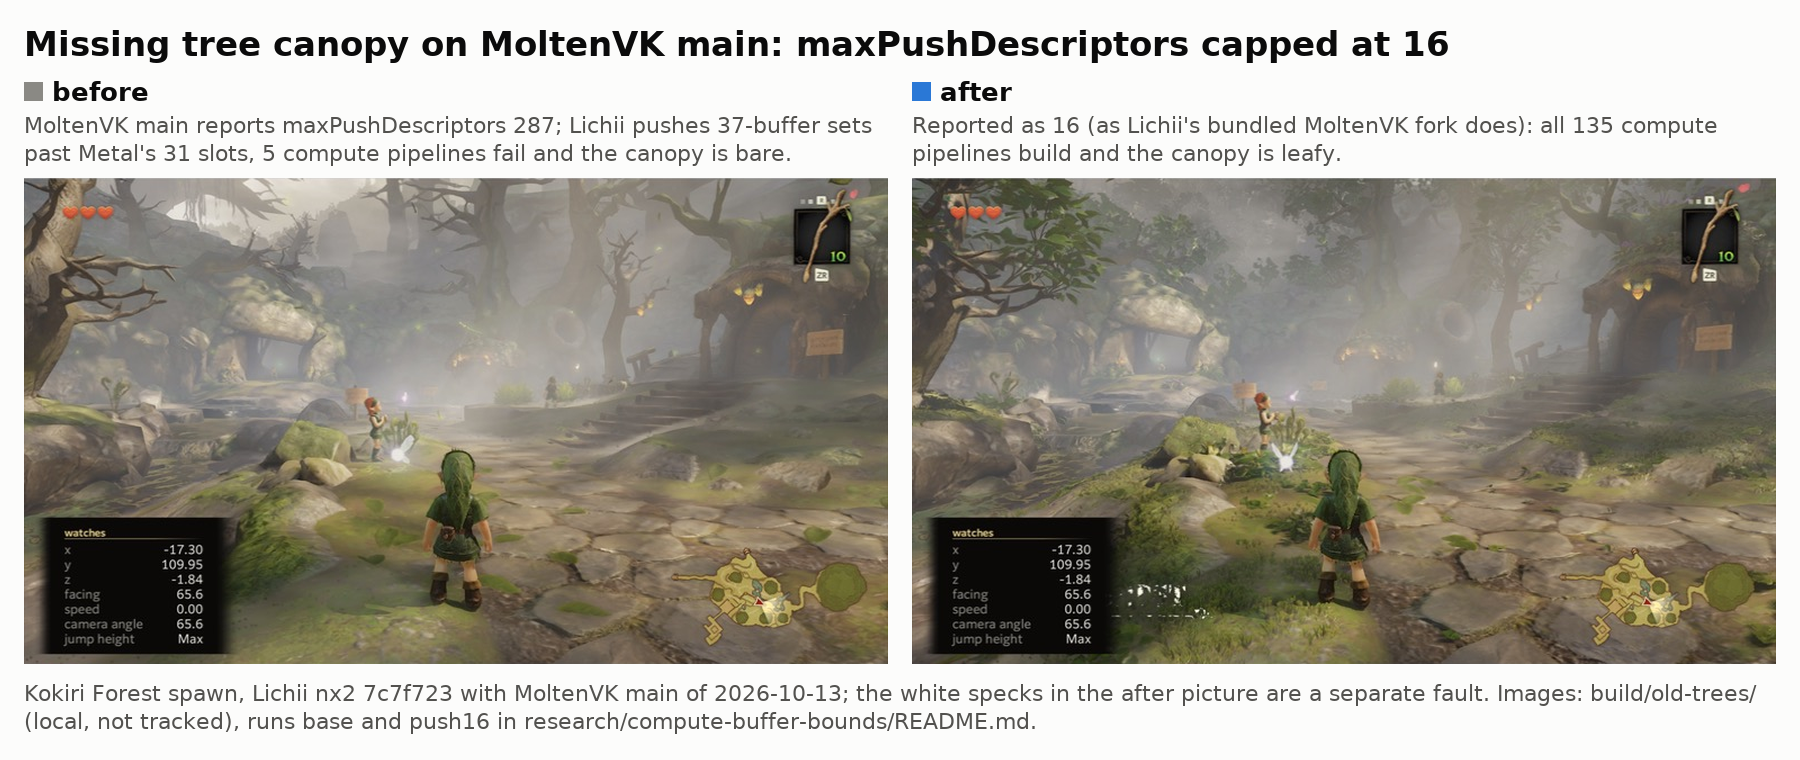
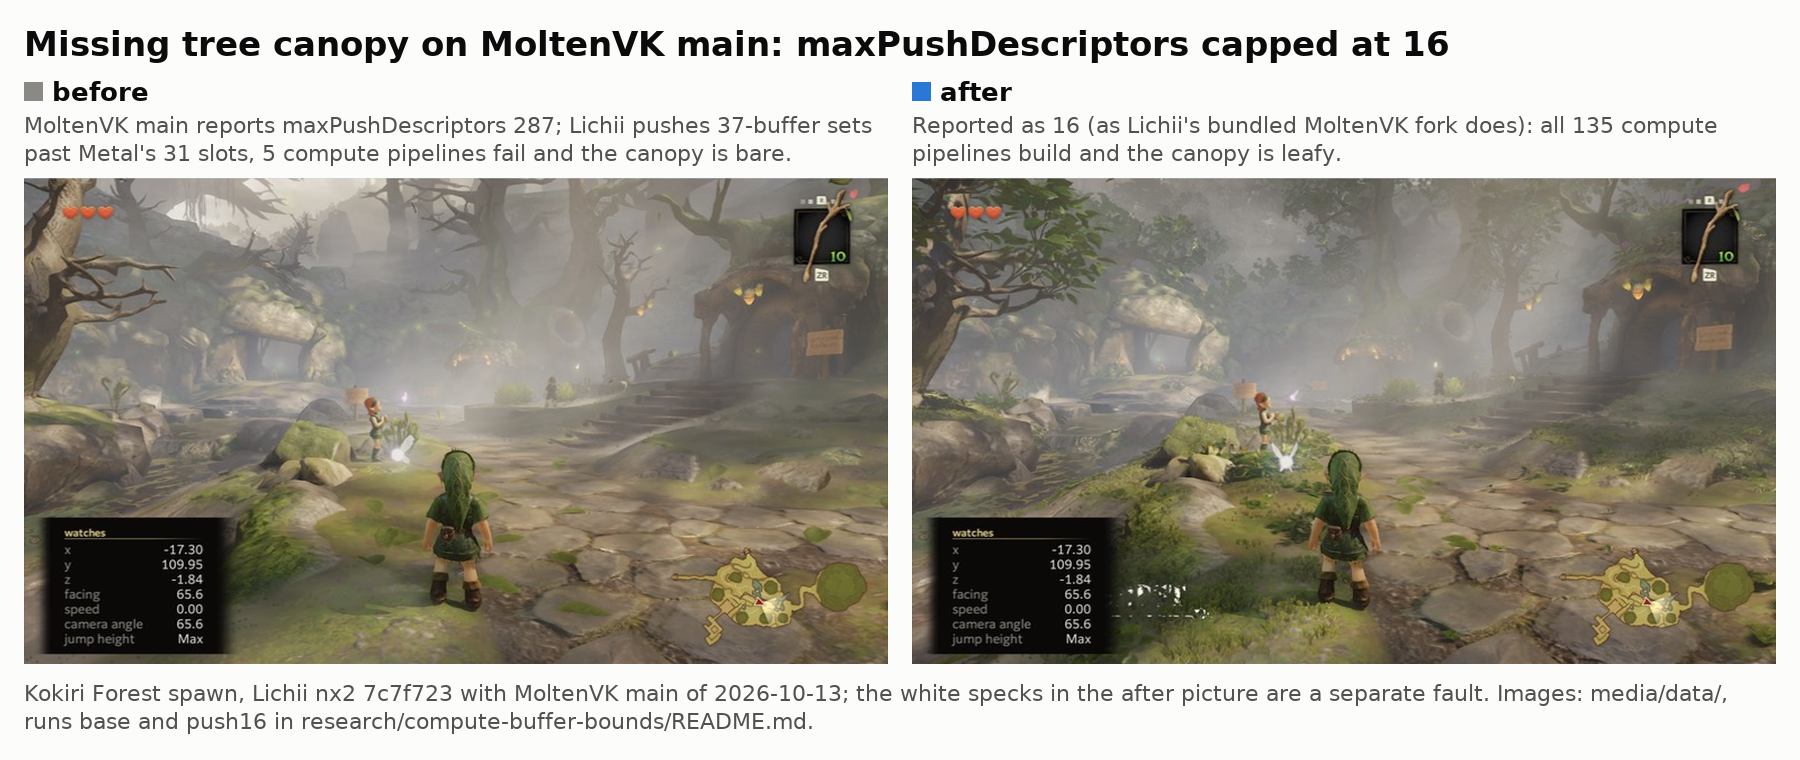
Loose ends from a scan: stale paths, missing index rows, five open items into the tracker

Changed region(s): [[0.0, 0.9382, 0.5911, 0.9684], [0.8711, 0.9079, 0.9644, 0.9382]]

diff --git a/media/README.md b/media/README.md
@@ -18,7 +18,7 @@ command below is run from `media/`, with `PY="uv run -q --with matplotlib --with
 | `boot-times.png` | Boot time without and with MoltenVK PR #2901: cold boot from an empty Metal shader cache (455–483 s against 97.4–100.7 s in the pinned build) and the first boot of a new MoltenVK library on a filled cache (206 s against 15.4 s). | [`data/boot-times.csv`](data/boot-times.csv): [research/emulator-options](../research/emulator-options/README.md), "Parallel shader compiles at boot" (table and "In the pinned build"); [research/shared-jit-cache](../research/shared-jit-cache/README.md), "Validation before adoption" (97.4 s) | `$PY scripts/boot_times.py data/boot-times.csv boot-times.png` |
 | `specks-before-after.png`, `specks-before-after.gif` | White specks on the Kokiri cave wall before and after the mesh cull-mode fix, same spot, Link stopped. PNG: the first frame of each burst. GIF (1000 px wide, 0.9 MB): the first 8 frames of each burst side by side, 0.35 s a frame (not real time); one "before" frame is clean, as in the run (7 of 8 speckled). | Before: run ab-20261117-220023 (local run data, not tracked), label `specks-counter-native`, burst `before/` (build before the fix, 7 of 8 frames over the speck threshold in its `result.json`). After: run ab-20261118-000338 (local run data, not tracked), label `wall-practice-rolled-out`, burst `wall/` (0 of 30). Mechanism and counts: [research/mesh-white-specks](../research/mesh-white-specks/README.md), "Proof" | `$PY scripts/pair.py BEFORE AFTER OUT --title … --before-label … --after-label … --note …` (exact arguments in `scripts/make_all.sh`) |
 | `mesh-position-before-after.png` | Native mesh shaders without and with the mesh position fix (Y flip and depth fixup added to the generated Metal source): foliage upside down in the sky and ground grass missing, then a picture that matches stock. | [research/mac-performance](../research/mac-performance/README.md), "Causes found", 4.3 (images `shots/native-mesh-no-position-fix.png`, `shots/native-mesh-with-position-fix.png`); TRACKER.md row 10 | as above, in `scripts/make_all.sh` |
-| `canopy-before-after.png` | MoltenVK main with `maxPushDescriptors` 287 (bare tree canopy, 5 compute pipelines failed) against the limit capped at 16 (leafy canopy, 135 of 135 compute pipelines). The white specks in the after picture are a separate fault. | `media/data/base-5189f8d.standing.jpg` and `push16.standing.jpg` (local, not tracked; runs `base` and `push16` in [research/compute-buffer-bounds](../research/compute-buffer-bounds/README.md)); TRACKER.md row 7 | as above, in `scripts/make_all.sh` |
+| `canopy-before-after.png` | MoltenVK main with `maxPushDescriptors` 287 (bare tree canopy, 5 compute pipelines failed) against the limit capped at 16 (leafy canopy, 135 of 135 compute pipelines). The white specks in the after picture are a separate fault. | `media/data/base-5189f8d.standing.jpg` and `push16.standing.jpg` ( runs `base` and `push16` in [research/compute-buffer-bounds](../research/compute-buffer-bounds/README.md)); TRACKER.md row 7 | as above, in `scripts/make_all.sh` |
 | `stock-vs-combined.png` | Stock Lichii build 228 (39.4–39.6 ms standing) against the first combined build, the all-in-one (27.9–29.2 ms), at the spawn; the picture matches by eye. | [research/mac-performance](../research/mac-performance/README.md), "Results, step by step", rows 0 and 2, and the images `shots/stock-228.png`, `shots/all-in-one.png` | as above, in `scripts/make_all.sh` |
 | `pinned-build.png` | The pinned build at the end of the test walk in Kokiri Forest, 2026-11-19 (1x resolution, handheld, the game's own upscaler) | run ab-20261119-041914, `pinned-r3`, `run-walkend.png` (local run data, not tracked), cropped to the game area | see `scripts/pair.py` `game_area` |
 

diff --git a/wip/hypervisor/rendering-faults/README.md b/wip/hypervisor/rendering-faults/README.md
@@ -96,9 +96,9 @@ earlier write-ups were not found by name.
 | Stray triangles from vertices the shader never wrote | The NaN guard ran only on the emulated path | Read from code; no visible effect measured | Lichii `44532bbe15` | `mesh-native-colours` sections 5–6 |
 | Shards in the canopy, one run in three | An older shader translation in a shared cache file | Suspected | Give each build its own pipeline cache | `mac-performance`, "How to measure" |
 | Grass flashing | `provokingVertexLast` not reported by MoltenVK | Suspected, untested | — | `wip/shader-prebuild/README.md` |
-| White specks on foliage | MoltenVK does not apply a mesh pipeline's cull mode; the draw inherits the previous draw's | Proven in a replay | In progress (mesh topology from the shader's output mode) | section 2.2 |
+| White specks on foliage | MoltenVK does not apply a mesh pipeline's cull mode; the draw inherits the previous draw's | Proven in a replay | Fixed: `patches/moltenvk/0010-…` (27 of 30 speckled frames to 0 of 30) | section 2.2, `research/mesh-white-specks/` |
 
-### 2.2 White specks on foliage (cause found 2026-11-17, fix in progress in the JIT cache session)
+### 2.2 White specks on foliage (cause found 2026-11-17, fixed in the pinned build)
 
 **Cause, proven in an offline replay:** MoltenVK never applies the cull mode of a mesh pipeline. Its pipeline
 constructor drops the input-assembly state for mesh pipelines, so the pipeline's primitive type stays "point", and
@@ -108,7 +108,7 @@ back-facing blades; the depth pre-pass happened to follow cull-none draws and wa
 only the moss colour draws: none 0 of 20 frames speckled, back 20 of 20 (identical to the fault). An emulated mesh
 program is an ordinary triangle pipeline, which is why emulating it hid the fault.
 
-**Fix being made:** a mesh pipeline takes its topology from the mesh shader's output primitive mode
+**The fix** (`patches/moltenvk/0010-…`): a mesh pipeline takes its topology from the mesh shader's output primitive mode
 (`MVKPipeline.mm`). Details and tools (`mtlspy` Metal call logger, `replay.sh`): `tools/speckcheck/`,
 `research/mesh-white-specks/`.
 
@@ -139,7 +139,7 @@ ordering, SIMD operations, group numbering) were measured and ruled out.
   natively drawn grass.
 - **No effect:** `P60_LIST_INDIRECT=0`, `EDEN_NX2_LIST_INDIRECT_CHECK=1` (0 lists differ),
   `EDEN_NX2_FRAMES_AHEAD=0`, `EDEN_NX2_FETCH_DRAIN=1`.
-- **What the white is** (JIT cache session, capture `tools/harness/runs/ab-20261117-210551/specks-capture`): the HDR scene target
+- **What the white is** (JIT cache session, capture run ab-20261117-210551, `specks-capture`; local run data, not kept): the HDR scene target
   is cleared to a bright value, a depth pre-pass writes grass depth, and opaque colour is then drawn depth-equal.
   Terrain cannot write where the pre-pass depth is grass, so a pixel whose grass colour draw does not land keeps
   the clear value. Rule: **white on foliage = the pre-pass wrote depth there and the colour draw did not land.**

diff --git a/TRACKER.md b/TRACKER.md
@@ -210,6 +210,11 @@ Ordered by expected value.
 | Add an instruction-cache barrier on the other cores after a full clear of the shared code cache | The arm64 port reuses memory after a full clear without an `ISB` on the cores that did not do the clear; found by reading while preparing the upstream diff, not seen as a fault (a 512 MiB cache does not fill in a load: 211–231 MiB used) | `patches/lichii/0008-…` | Add the barrier where the clear wakes the other cores; run the dynarmic tests and one harness batch with `EDEN_NX2_SHARED_JIT_CACHE=128`, which clears during a load |
 | Guard the shuffle-free upscaler multiply for subgroup sizes other than 32 | The multiply indexes workgroup memory by `SubgroupId*32`; Apple GPUs use 32-lane subgroups, other vendors on the same software path may not, and the result would be wrong there | `patches/lichii/0006-…`, `patches/upstream/04a-…` | Read the subgroup size at shader build and fall back to the shuffle path when it is not 32 |
 | Port the series to current Lichii and measure it | The pinned base is from around build 228; `nx2` is more than 200 commits on (build 341 and later) and has merged PR #2022 | in progress in `wip/lichii-next/` | Build, then an A/B against the pinned build with a private data folder so the installed build's shader caches are not touched |
+| Test the shared code cache in the real kernel paths | Thread migration between cores, the debugger path and process teardown have only been exercised by the unit tests, not in the emulator's kernel | `research/shared-jit-cache/` (open work) | Harness runs with a debugger attached and with a guest that migrates threads; a teardown test at exit |
+| Finish the shader inventory | Lichii ids for the 387 mesh shaders never seen live; a forced build of the six oversized ones not yet seen; the BFSHA option tables; the `.vsetb` effect container, which probably explains about 330 unmatched cached programs | `research/shader-extraction/` | Decode `.vsetb`; force-build the six |
+| Test the discard and early-depth overdraw lead | Fragment shaders with `discard` lose early depth rejection; untested | `research/allinone-frame-breakdown/` | Count overdraw on one frame with and without the discard |
+| Run the state check on more traces | The stencil reference rule, the six allowed differences and cull, winding and topology as dynamic state have never run on real data: one trace, one spot | `tools/statecheck/` | Record traces at other save locations |
+| Count pipelines that skip the disk cache when prebuilt | `LoadPipelinesV2` skips the disk cache without saying so | `wip/shader-prebuild/precompiled-file.md` | Add a counter to the load log |
 
 ## Upstream
 

diff --git a/tools/harness/README.md b/tools/harness/README.md
@@ -17,7 +17,7 @@ Tools for running the game unattended in Lichii and A/B-testing settings, builds
 | `p95.py` | `python p95.py RUN_DIR…`: p50 / p90 / p95 / p99 / max per phase from `frames.bin`, for runs made before p95 was recorded |
 | `../speckcheck/` | Speck tools (screenshot bursts scored for white specks, GPU trace replay). `ab.py` imports `speckhunt` and `whitecount` from there for `at_end`, `walk_shots` and `on_corrupt` |
 | `session.sh` | One interactive Lichii session with the debug server on, under the lock; `touch STOP` ends it |
-| `specs/` | Run specs: `smoke.json` (the smoke test below) and the specs behind the write-ups |
+| `specs/` | Run specs. `smoke.json`, `pinned-validate.json`, `bilinear.json` and the `lichii-next-*.json` pair run as they are. The rest are the record of what each batch behind the write-ups ran (labels, settings, switches): most name test apps that no longer exist, and the harness refuses to start a run whose app is missing |
 | `build-variants/` | `prebuild-variants.sh` (LTO, PGO, upstream-LLVM builds), `pgo-pipeline.sh` and `build-mvk-par.sh` (the parallel-shader-compile MoltenVK variants). They expect the local build trees they were written for, which are not part of this repository |
 | [`../../patches/experiments/`](../../patches/) | The changes these runs tested and did not adopt: the JIT flush, the Hypervisor experiments, the per-compile JIT log, the MoltenVK pipeline-cache progress log and the parallel-compile variants (`moltenvk-<variant>-vs-path60-*.patch`, against the MoltenVK tree of the path-to-60fps work) |
 | `shader-refs/mipflow.json` | The list of fragment programs with per-pixel conditional samples, from the shader analysis in [`wip/shader-metal-analysis`](../../wip/shader-metal-analysis/README.md) |

diff --git a/wip/README.md b/wip/README.md
@@ -8,5 +8,7 @@ is; the same threads are rows under "Open" in [../TRACKER.md](../TRACKER.md). A 
 | --- | --- | --- |
 | [shader-prebuild/](shader-prebuild/README.md) | Can the game's shaders be built before play, so a first visit does not stutter? | Works in a test build: compile work in a first visit 175.6 s → 7.3 s with a small predicted file. Not in the pinned build: the full file overflows Metal's 1 GiB shader cache. |
 | [shader-metal-analysis/](shader-metal-analysis/README.md) | Do the Metal translations of the game's shaders compute what the originals do? | Done offline: the translation is bit-exact. A third of automatic-mip samples are conditional per pixel and get the wrong mip on Apple GPUs; the fix is prototyped and has not been seen in the game. |
+| [hypervisor/](hypervisor/README.md) | Can Lichii's Hypervisor CPU backend, which runs guest code natively, replace the JIT? | The render race is found and fixed and the backend walks faster than the JIT (17.5 ms against 22 ms) and loads twice as fast, but 2 of 26 boots had a corrupted picture. The untested read-path fix and the remaining tests are listed in its README. Not built or run since it was recovered. |
+| [lichii-next/](lichii-next/README.md) | Does the patch series work on current Lichii? | Ported to `nx2` `d2ca32974d` (202 commits past the pinned base) as `patches/lichii-next/`; compiles, the dynarmic tests pass; being measured against the pinned build. |
 
 `<thread>/local/` holds build trees and run data. It is not tracked.

diff --git a/wip/shader-metal-analysis/shader-compare/README.md b/wip/shader-metal-analysis/shader-compare/README.md
@@ -11,7 +11,7 @@ scratch folder and do not commit them.
 | Guest programs (Nvidia code) | `~/.cache/lichii/shader/0400486024dec000/lichii-cache.v2.bin`, read with `../../../extractor/shaders/lichii_cache.py` |
 | Metal source | `vulkan_pipelines.fork-v54.bin` in the same folder (MoltenVK's pipeline cache, plain-text MSL) |
 | Metal bitcode | Apple's cache, `$(getconf DARWIN_USER_CACHE_DIR)/io.github.zortos293.lichii/com.apple.metal/*/libraries.data` |
-| Prepared standalone shader | a folder written by `build/old-trees/offline-probes/perf/fsprep.py` (main checkout): `fs.metal`, `vs.metal`, `meta.json` |
+| Prepared standalone shader | a folder written by `fsprep.py` (a local probe script, kept in `build/keep/offline-probes-src/perf/`, not tracked): `fs.metal`, `vs.metal`, `meta.json` |
 
 Lichii rewrites its caches when it runs or precompiles. Copy the cache before a long scan; the scan scripts take the
 cache path as their first argument.

diff --git a/tools/README.md b/tools/README.md
@@ -8,6 +8,7 @@
 | [statecheck/](statecheck/README.md) | Replays a recorded GPU trace and checks, draw by draw, that Metal holds the raster state Vulkan asked for |
 | [speckcheck/](speckcheck/README.md) | Screenshot bursts scored for white specks, and GPU trace replay with shader overrides |
 | [jit-cache/](jit-cache/README.md) | Measurement scripts and run specs for the shared JIT code cache |
+| [compile-time/](compile-time/README.md) | Times the pieces of one shader compile outside the emulator: SPIR-V to MSL, then Metal's library and pipeline compile |
 | [perf/](perf/README.md) | Frame-profile comparison scripts from the frame-time work |
 
 The harness drives the game through Lichii's debug server and needs no controller server. Setting it up on a new

diff --git a/tools/perf/README.md b/tools/perf/README.md
@@ -15,7 +15,7 @@ repository. They are kept as they were.
 
 | Script | What it does |
 | --- | --- |
-| `rest.sh`, `reorder.sh`, `pgo-llvm-pipeline.sh` | one-off queues for the PGO, LTO and LLVM builds and the harness batches |
+| `tg_audit.py DUMP_DIR` | sums the threadgroup memory each dumped Metal mesh or object shader declares (`MVK_CONFIG_SHADER_DUMP_DIR` dump) |
 | `cmp.py LABEL...` | one row per run: standing median, GPU busy and idle, command buffers, encoders |
 | `perframe.py`, `sigdiff.py`, `modecmp.py` | per-frame, per-signal and per-mode comparisons of profiler output |
 | `gapctx.py`, `gaptrace.py`, `gapsplit.py` | GPU idle gaps against Lichii's sync trace |

diff --git a/research/shared-jit-cache/README.md b/research/shared-jit-cache/README.md
@@ -93,7 +93,7 @@ at p50 and 84.5 → 11.6 ms at p99. Slow frames are compile frames.
 ### Validation before adoption
 
 Spec `tools/harness/specs/merge-sharedjit.json`, run ab-20261118-014956, per-run results in
-[`tools/harness/merge-sharedjit.log`](../../tools/harness/merge-sharedjit.log). A candidate with only the JIT change
+run ab-20261118-014956 (labels `merge-*`; local run data, not tracked). A candidate with only the JIT change
 (16 files of the port; speck diagnostics left out), same MoltenVK library in every app, harness walk with turns,
 three runs each:
 

diff --git a/wip/shader-prebuild/binary-archives.md b/wip/shader-prebuild/binary-archives.md
@@ -77,7 +77,7 @@ GPU code and 10 KB of library per record, so **about 5–7 GB of archives** for 
 
 ## Where it goes in MoltenVK
 
-**Read** in `build/old-trees/path-60/moltenvk` (HEAD `8fc3c2af` plus local changes). The tree has no
+**Read** in the MoltenVK tree of that time (`8fc3c2af` plus local changes; today `build/src/moltenvk`, branch `gold`). The tree has no
 `binaryArchive` code. Every Metal pipeline goes through three functions:
 
 - `MVKRenderPipelineCompiler::newMTLRenderPipelineState(MTLRenderPipelineDescriptor*)` (`MVKPipeline.mm:3133`),

diff --git a/research/mesh-white-specks/README.md b/research/mesh-white-specks/README.md
@@ -39,7 +39,7 @@ masked, a frame counts above 0.3 %):
 
 | Run | Speckled |
 | --- | --- |
-| Run that found the fault (run ab-20261117-233936): patched build | 0/30, 0/30 again |
+| Run that found the fault (run ab-20261117-233936, run data not kept): patched build | 0/30, 0/30 again |
 | The same, unfixed build (#2901 test build) | 28/30 |
 | Independent check (spec `tools/harness/specs/val-cull.json`, a separate build of the patch): unfixed reference | 27/30 |
 | Independent check: patched | 0/30, 0/30 |

diff --git a/wip/shader-metal-analysis/guest-vs-metal-shaders/README.md b/wip/shader-metal-analysis/guest-vs-metal-shaders/README.md
@@ -3,7 +3,7 @@
 Done 2026-11-17, offline, on an M4 Pro. No emulator was run and no Nvidia hardware was available, so everything about
 Nvidia's side is read from the game's code, not measured. Tools are in
 [`../shader-compare/`](../shader-compare/); the Lichii sources read are those of
-`build/old-trees/path-60/lichii` in the main checkout.
+the Lichii tree of that time (`44532bbe15` plus the frame-time fixes; today `build/src/lichii`, branch `gold`).
 
 ## Answer
 
